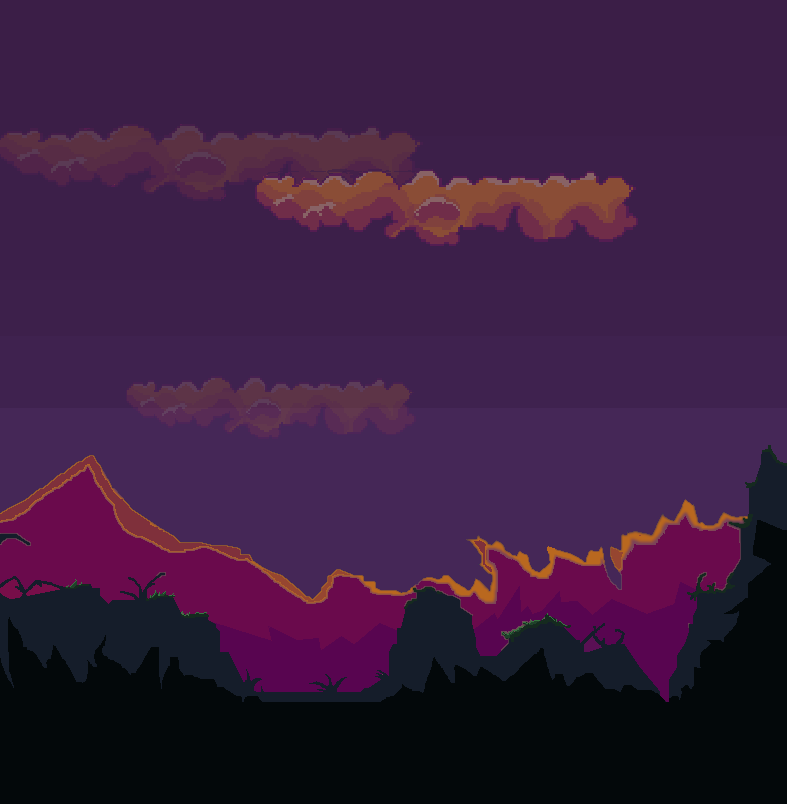
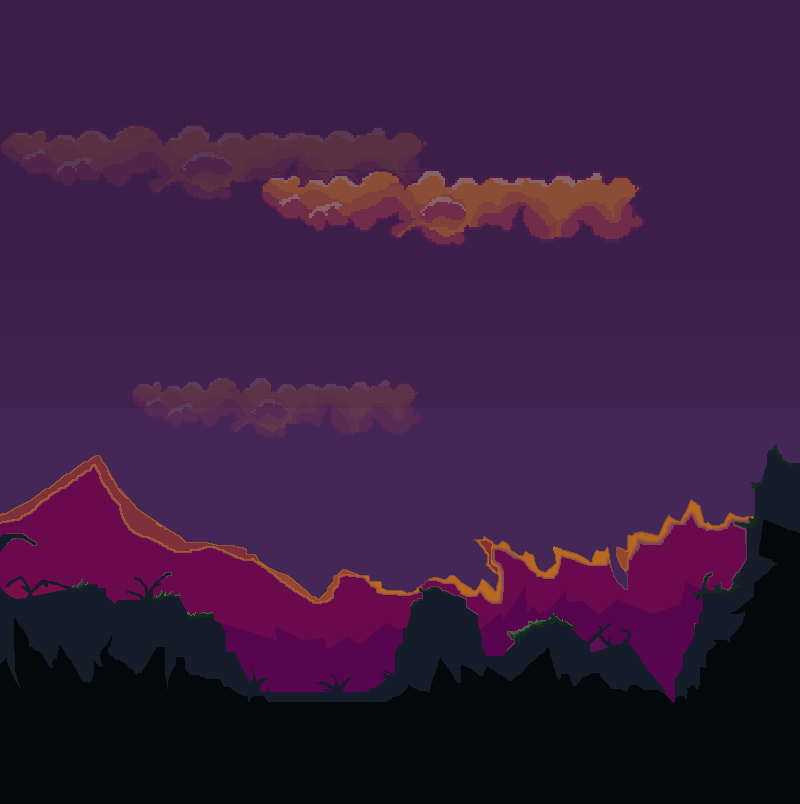
fix bug

diff --git a/src/game/GameScene.ts b/src/game/GameScene.ts
@@ -261,6 +261,10 @@ export default class GameScene extends Phaser.Scene {
         this.load.image(
             'nefi-bg-tree',
             '/Images/nefi-bg-tree.png'
+        );
+        this.load.image(
+            "bg8",
+            "/Images/dream-drive-bg8.png"
         )
     }
 
@@ -332,7 +336,7 @@ export default class GameScene extends Phaser.Scene {
         this.add.image(2000, 13900, "bg3");
         this.add.image(2000, 14700, "bg2");
 
-        this.add.image(2800, 14700, "bg3");
+        this.add.image(2800, 14700, "bg8");
         this.add.image(2800, 13900, "bg4");
 
         this.add.image(2800, 13100, "bg6");
@@ -628,6 +632,8 @@ export default class GameScene extends Phaser.Scene {
         // =========================
         // NEFI VILLAGE
         // =========================
+
+        this.add.image(3300, 14400, "nefi-bg-tree").setScale(2);
 
         this.add
             .image(3730, 14410, "nefi-walls")
